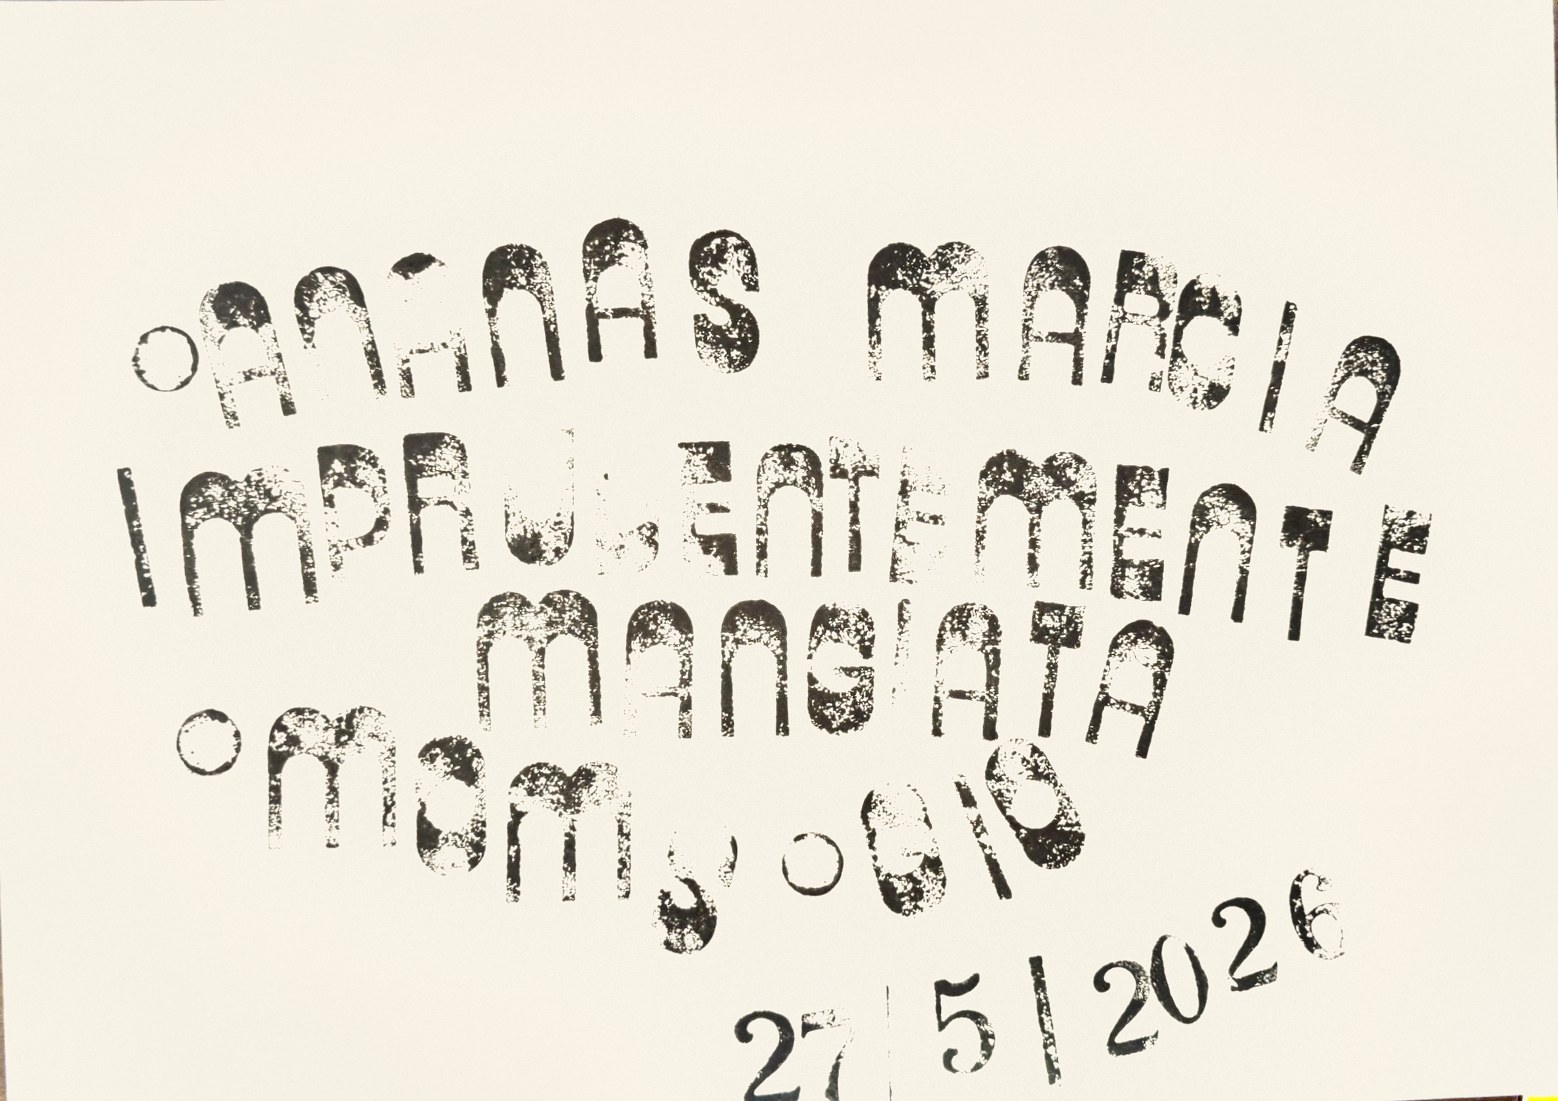
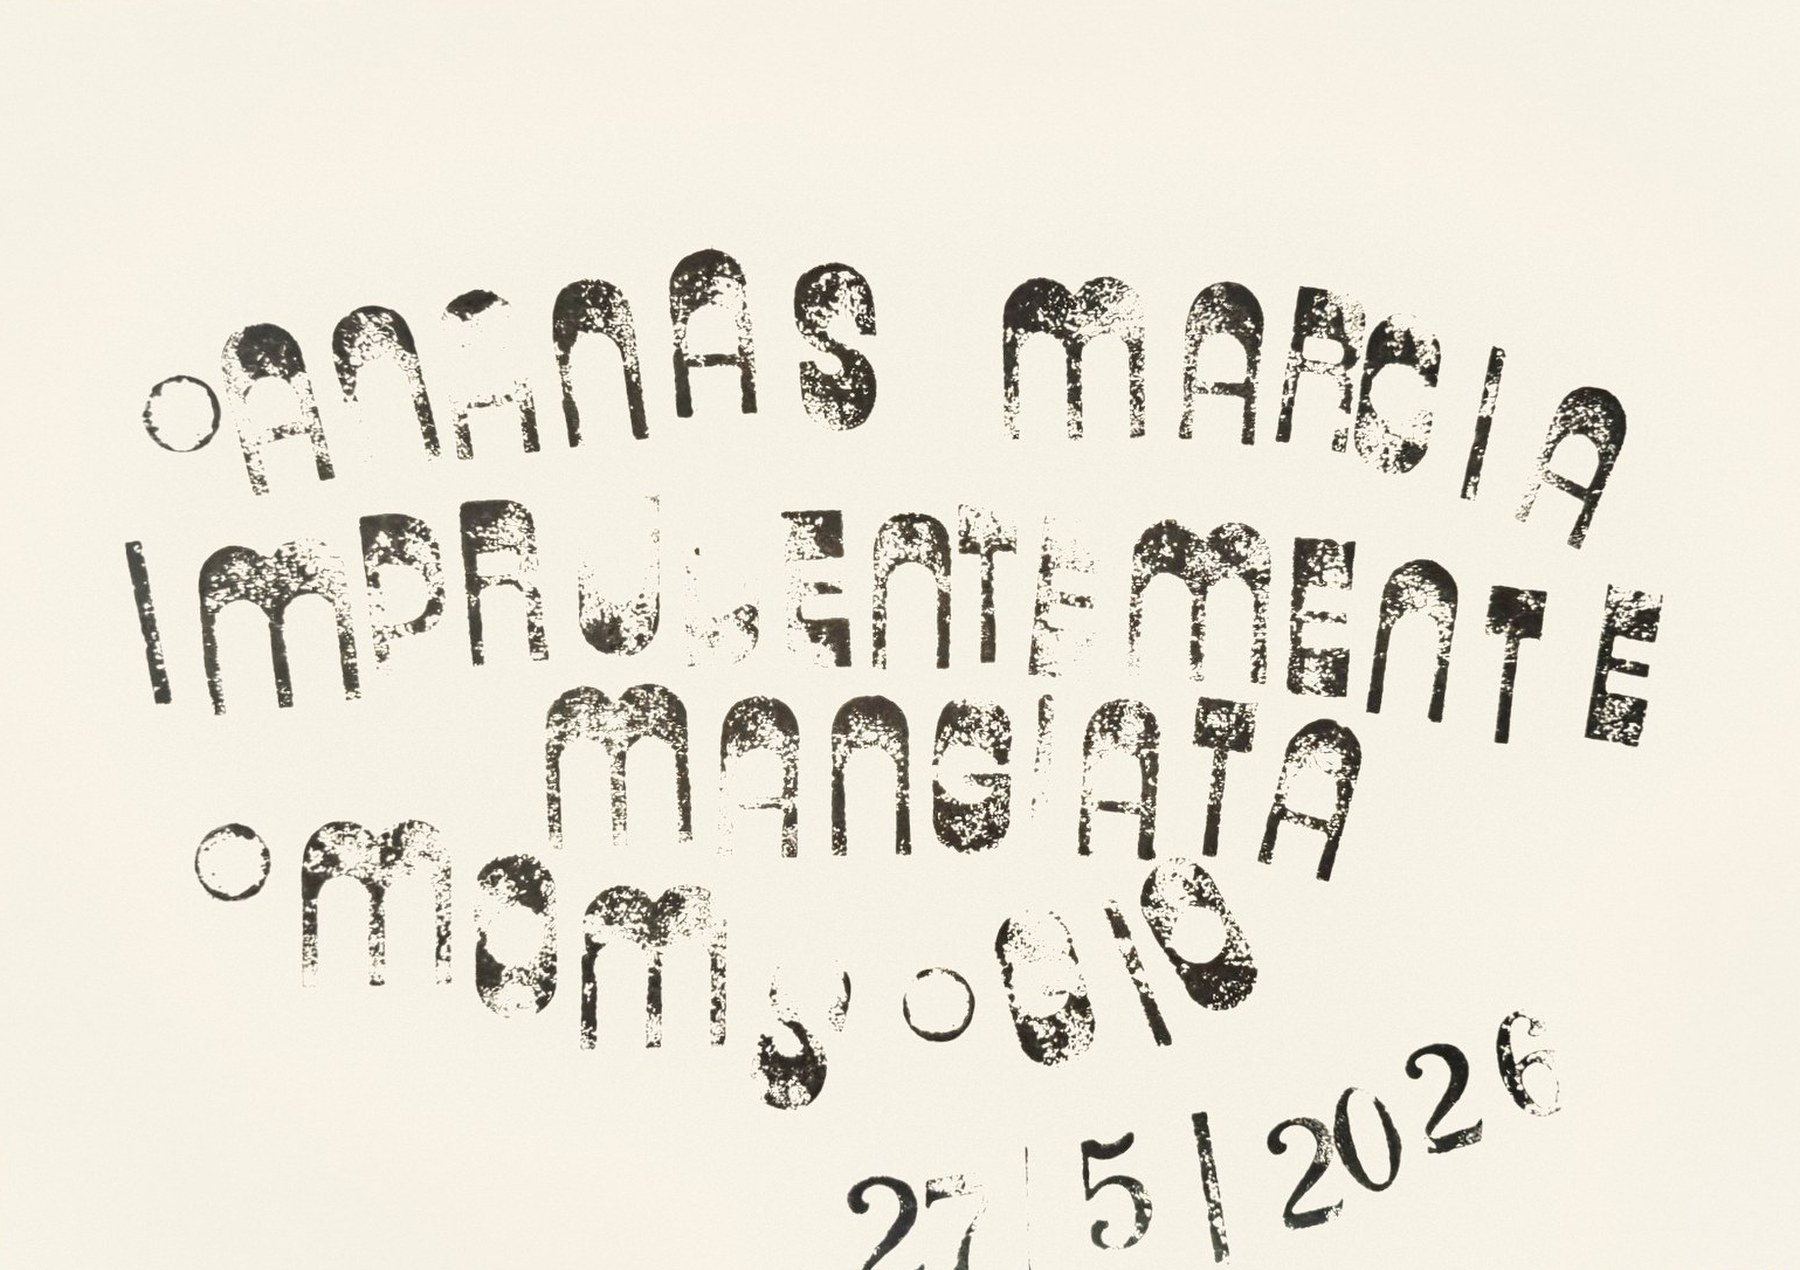
fix: 27/5 — re-crop bordi residui

diff --git a/index.html b/index.html
@@ -672,11 +672,11 @@ section#timbri{ padding-top: clamp(160px, 18vw, 240px); }
       <figcaption class="work-caption"><span class="work-date">29/5/26</span></figcaption>
     </figure>
     <figure class="work">
-      <div class="work-frame" style="--ratio: 70.67%;">
+      <div class="work-frame" style="--ratio: 70.56%;">
         <img src="foto_definitive/Timbro_2026-05-27.jpg"
              srcset="foto_definitive/thumbs/Timbro_2026-05-27.jpg 800w, foto_definitive/Timbro_2026-05-27.jpg 1800w"
              sizes="(max-width: 720px) 92vw, 720px"
-             width="1558" height="1101"
+             width="1800" height="1270"
              alt="27/5/26" loading="lazy" decoding="async" />
       </div>
       <figcaption class="work-caption"><span class="work-date">27/5/26</span></figcaption>
